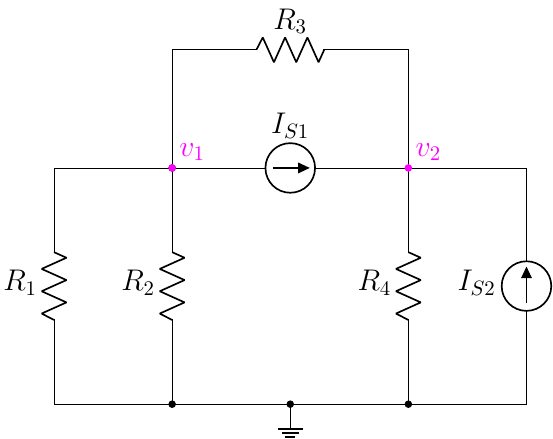
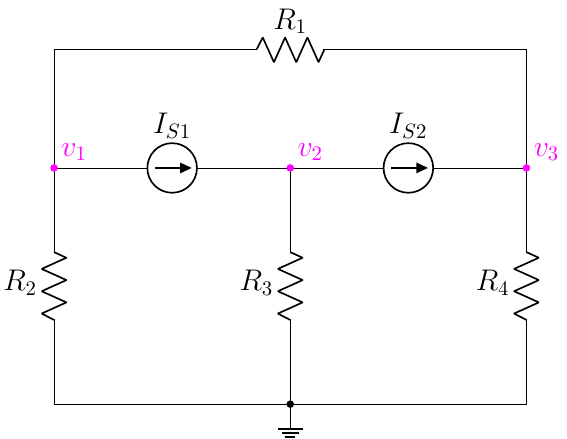
edit 3.10

diff --git a/1.3 Nodal Analysis/3.2 Nodal Analysis/3.10(new).tex b/1.3 Nodal Analysis/3.2 Nodal Analysis/3.10(new).tex
@@ -3,30 +3,21 @@
 \begin{circuitikz}[american]
 
     %%% vertical %%%
-    \draw(0,0)  to[R,l=\rname{1}] ++(0,4);
-
-    \draw(2,0)  to[R,l=\rname{2}] ++(0,4)
+    \draw(0,0)  to[R,l=\rname{2}] ++(0,4) 
                 to[short] ++(0,2);
-
-    \draw(6,0)  to[R,l=\rname{4}] ++(0,4)
+    \draw(4,0)  to[R,l=\rname{3}] ++(0,4);
+    \draw(8,0)  to[R,l=\rname{4}] ++(0,4)
                 to[short] ++(0,2);
-
-    \draw(8,0)  to[I,l=\isname{2}] ++(0,4);
-
     %%% horizontal %%%
-    \draw(0,0)  to[short,-*] ++(2,0)
-                to[short,-*] ++(2,0) node[ground]{}
-                to[short,-*] ++(2,0)
-                to[short] ++(2,0);
-    
-    \draw(0,4)  to[short,-*] ++(2,0)
-                to[I,l=\isname{1}] ++(4,0)
-                to[short] ++(2,0);
-
-    \draw(2,6)  to[R,l=\rname{3}] ++(4,0);
+    \draw(0,6)  to[R,l=\rname{1}] ++(8,0);
+    \draw(0,4)  to[I,l=\isname{1}] ++(4,0)
+                to[I,l=\isname{2}] ++(4,0);
+    \draw(0,0)  to[short,-*] ++(4,0) node[ground]{}
+                to[short] ++(4,0);
 
     %%% find %%%
-    \nodev{2}{4}{1};
-    \nodev{6}{4}{2};
+    \nodev{0}{4}{1};
+    \nodev{4}{4}{2};
+    \nodev{8}{4}{3};
 \end{circuitikz}
 \end{document}
